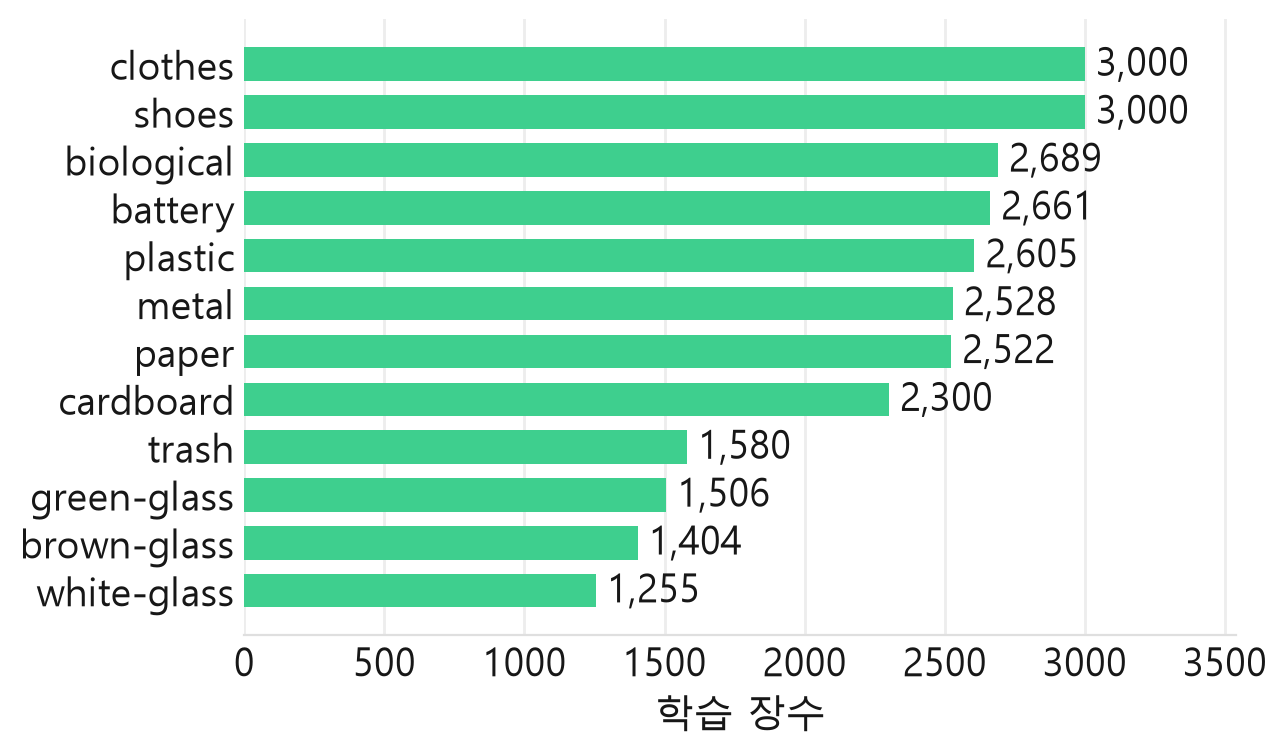
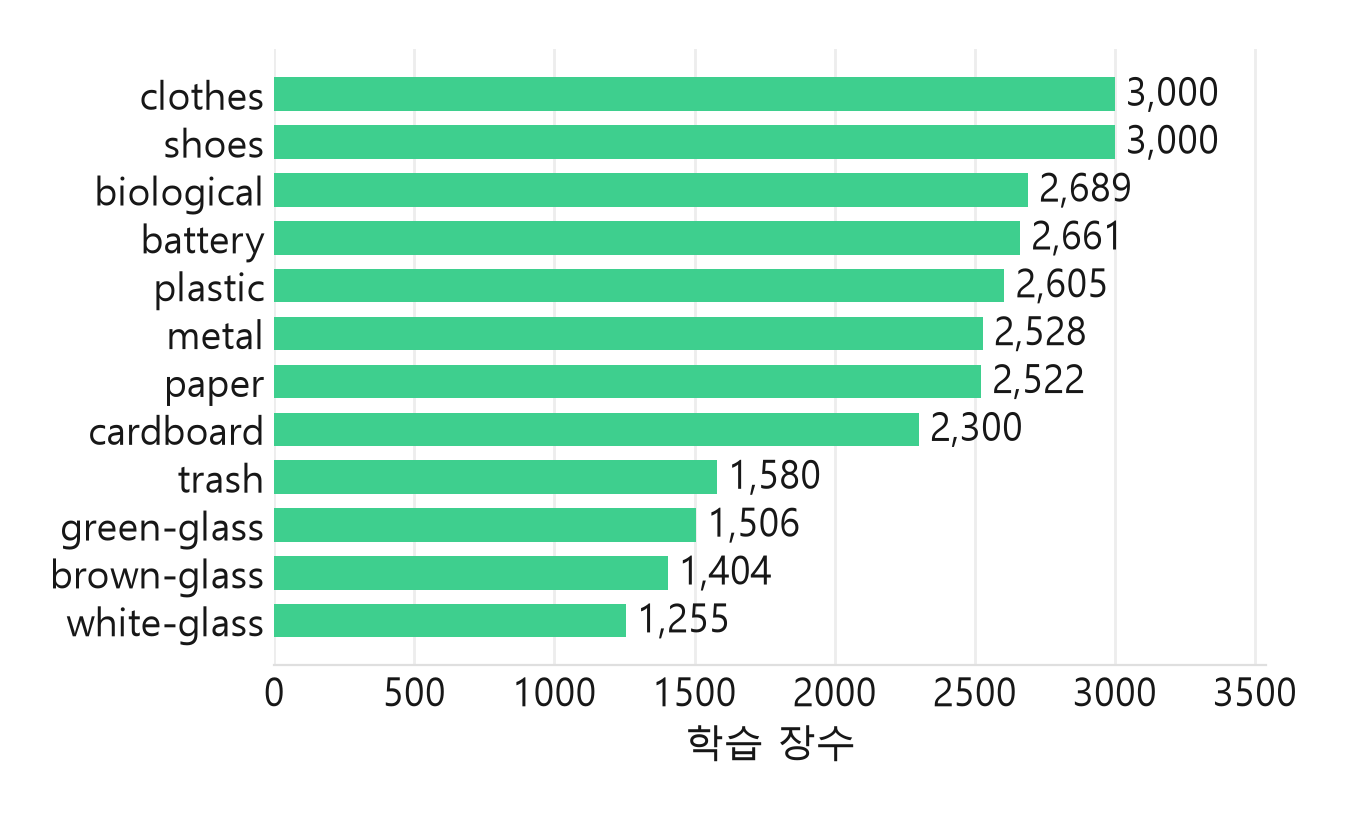
Slide figures: severity-split dirty chart, Korean labels

Changed region(s): [[0.0, 0.0608, 0.9331, 0.9735], [0.6843, 0.8214, 0.8709, 0.9127], [0.902, 0.8214, 0.9953, 0.9127]]

diff --git a/01_coding/tools/make_slide_figures.py b/01_coding/tools/make_slide_figures.py
@@ -38,7 +38,7 @@ def style_axes(ax, grid="y"):
 
 def save(fig, name):
     OUT.mkdir(parents=True, exist_ok=True)
-    fig.savefig(OUT / name, dpi=200, bbox_inches="tight")
+    fig.savefig(OUT / name, dpi=200, bbox_inches="tight", pad_inches=0.25)
     plt.close(fig)
 
 
@@ -128,7 +128,7 @@ def confusion_test():
     ax.set_xticks(range(len(c.columns)), c.columns, rotation=45, ha="right")
     ax.set_yticks(range(len(c.index)), c.index)
     ax.set_xlabel("예측")
-    ax.set_ylabel("정답")
+    ax.set_ylabel("정답", labelpad=10)
     ax.tick_params(labelsize=FS, length=0)
     for s in ax.spines.values():
         s.set_color(LINE)
@@ -157,22 +157,45 @@ def test_scores():
     return mj["val"], mj["val_ext"], tj["test"]["acc"], tj["test_ext"]["acc"]
 
 
+KO = {"dark": "어둡게", "blur": "흐림", "motion_blur": "흔들림", "jpeg": "JPEG 압축",
+      "glare": "빛번짐", "low_light_noise": "저조도+잡음", "stain": "얼룩", "noise": "잡음"}
+
+
 def dirty_by_corruption():
+    from matplotlib.patches import Patch
     d = pd.read_csv(ROOT / "final_test/dirty_test_predictions.csv")
-    g = d.groupby("corruption")["ok"].mean().sort_values()
-    cols = [DEEP if k == "none" else WARN if v < 0.6 else GRAY for k, v in g.items()]
-    fig, ax = plt.subplots(figsize=HALF)
-    ax.barh(["원본" if k == "none" else k for k in g.index], g.values, color=cols, height=0.7)
-    for i, v in enumerate(g.values):
-        ax.text(v + 0.01, i, f"{v:.3f}", va="center", fontsize=FS)
+    clean = d[d.corruption == "none"].ok.mean()
+    p = d[d.corruption != "none"].groupby(["corruption", "severity"])["ok"].mean().unstack()
+    p = p.sort_values("strong", ascending=False)  # 위에서 아래로: 강한 손상에 강한 순
+    fig, ax = plt.subplots(figsize=(7.2, 6.4))
+    h = 0.38
+    ys, labels = [], []
+    ax.barh(0, clean, color=DEEP, height=0.6)
+    ax.text(clean + 0.01, 0, f"{clean:.3f}", va="center", fontsize=FS)
+    ys.append(0)
+    labels.append("원본")
+    for i, (k, r) in enumerate(p.iterrows(), start=1):
+        y = i * 1.2 + 0.2
+        sc = WARN if round(r["strong"], 3) <= 0.60 else SUB
+        ax.barh(y - h / 2, r["mild"], color=GRAY, height=h)
+        ax.barh(y + h / 2, r["strong"], color=sc, height=h)
+        ax.text(r["mild"] + 0.01, y - h / 2, f"{r['mild']:.3f}", va="center", fontsize=12)
+        ax.text(r["strong"] + 0.01, y + h / 2, f"{r['strong']:.3f}", va="center", fontsize=12)
+        ys.append(y)
+        labels.append(KO.get(k, k))
+    ax.set_yticks(ys, labels)
+    ax.invert_yaxis()
     ax.set_xlim(0, 1.0)
     ax.set_xlabel("정확도")
     style_axes(ax, "x")
     ax.spines["left"].set_visible(False)
+    ax.legend(handles=[Patch(color=GRAY, label="약"), Patch(color=SUB, label="강"),
+                       Patch(color=WARN, label="강 (0.60 이하)")],
+              frameon=False, fontsize=FS, loc="upper center", bbox_to_anchor=(0.45, -0.14), ncol=3,
+              handlelength=1.2, columnspacing=1.2)
     save(fig, "dirty_by_corruption.png")
-    clean = d[d.corruption == "none"].ok.mean()
-    dirty = d[d.corruption != "none"].ok.mean()
-    return d.ok.mean(), clean, dirty
+    print(p.round(3).to_string())
+    return d.ok.mean(), clean, d[d.corruption != "none"].ok.mean()
 
 
 if __name__ == "__main__":
